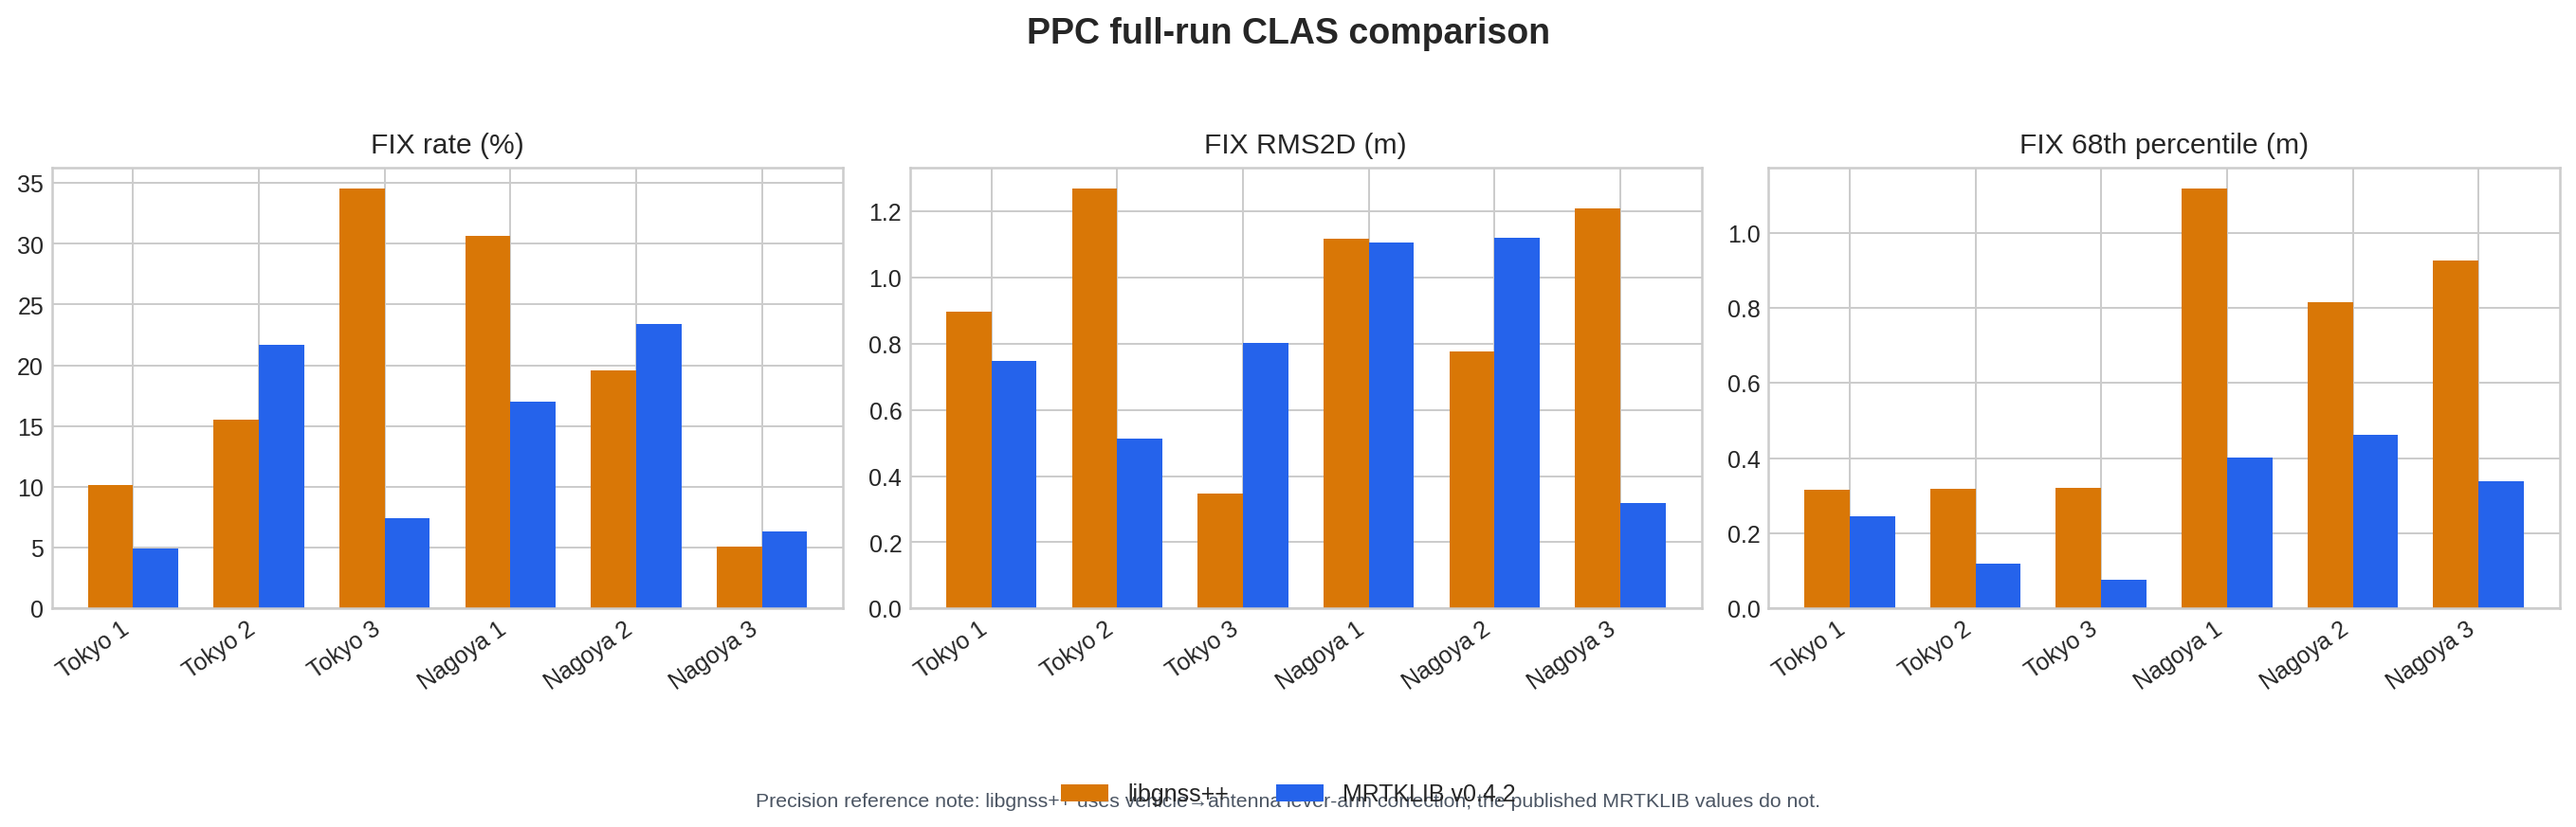
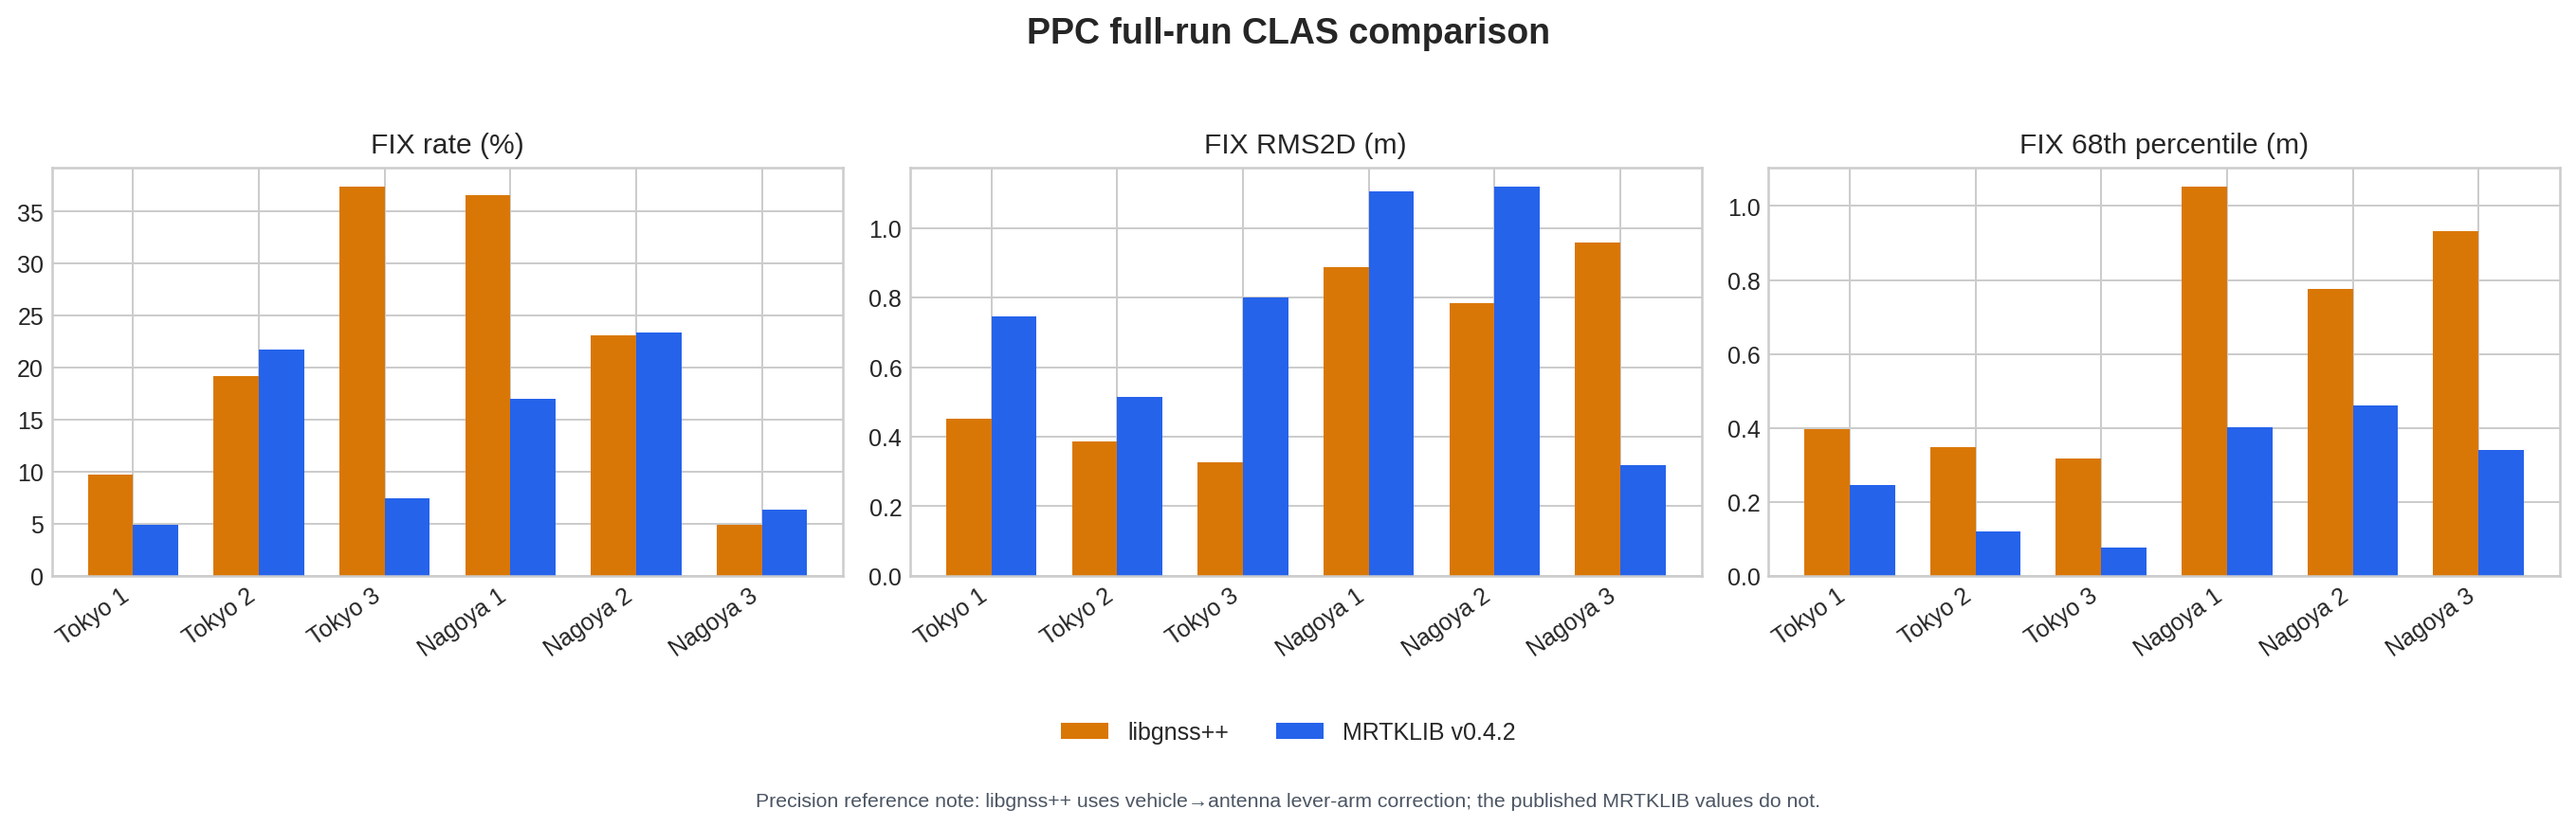
update CLAS benchmark results

diff --git a/scripts/generate_ppc_clas_full_comparison.py b/scripts/generate_ppc_clas_full_comparison.py
@@ -132,6 +132,7 @@ def load_run(
         "p95_fixed_m": rounded(np.percentile(fixed_error, 95)) if len(fixed) else None,
         "max_fixed_m": rounded(np.max(fixed_error)) if len(fixed) else None,
         "fixed_over_1m": int(np.count_nonzero(fixed_error > 1.0)),
+        "fixed_over_3m": int(np.count_nonzero(fixed_error > 3.0)),
         "rms2d_all_m": rounded(np.sqrt(np.mean(all_error**2))),
         "p95_all_m": rounded(np.percentile(all_error, 95)),
         "ttff_30_s": scorecard.compute_ttff_s(
@@ -207,7 +208,13 @@ def write_metric_figure(runs: list[dict[str, Any]], output: Path) -> None:
         ax.set_xticks(x, labels, rotation=35, ha="right")
         ax.set_axisbelow(True)
     handles, legend_labels = axes[0].get_legend_handles_labels()
-    figure.legend(handles, legend_labels, loc="lower center", ncol=2)
+    figure.legend(
+        handles,
+        legend_labels,
+        loc="lower center",
+        bbox_to_anchor=(0.5, 0.065),
+        ncol=2,
+    )
     figure.suptitle("PPC full-run CLAS comparison", fontsize=15, fontweight="bold")
     figure.text(
         0.5,
@@ -218,7 +225,7 @@ def write_metric_figure(runs: list[dict[str, Any]], output: Path) -> None:
         fontsize=8.5,
         color="#4b5563",
     )
-    figure.tight_layout(rect=(0, 0.12, 1, 0.94))
+    figure.tight_layout(rect=(0, 0.16, 1, 0.94))
     output.parent.mkdir(parents=True, exist_ok=True)
     figure.savefig(output, dpi=180, bbox_inches="tight")
     plt.close(figure)
@@ -268,8 +275,8 @@ def write_markdown_table(
     runs: list[dict[str, Any]], aggregate: dict[str, Any], output: Path
 ) -> None:
     lines = [
-        "| Run | Coverage (time / epochs) | libgnss++ FIX | MRTKLIB FIX | libgnss++ FIX RMS2D* | MRTKLIB RMS2D† | libgnss++ FIX p68* | MRTKLIB p68† | libgnss++ TTFF | MRTKLIB TTFF |",
-        "|---|---:|---:|---:|---:|---:|---:|---:|---:|---:|",
+        "| Run | Coverage (time / epochs) | libgnss++ FIX | MRTKLIB FIX | libgnss++ FIX RMS2D* | MRTKLIB RMS2D† | libgnss++ FIX p68* | MRTKLIB p68† | libgnss++ max FIX* | >3 m FIX* | libgnss++ TTFF | MRTKLIB TTFF |",
+        "|---|---:|---:|---:|---:|---:|---:|---:|---:|---:|---:|---:|",
     ]
     for run, (_, label) in zip(runs, RUNS, strict=True):
         local = run["metrics"]
@@ -285,6 +292,8 @@ def write_markdown_table(
                     markdown_value(mrtk["rms2d_m"], " m"),
                     markdown_value(local["p68_fixed_m"], " m"),
                     markdown_value(mrtk["sigma2d_m"], " m"),
+                    markdown_value(local["max_fixed_m"], " m"),
+                    str(local["fixed_over_3m"]),
                     markdown_value(local["ttff_30_s"], " s"),
                     markdown_value(mrtk["ttff_s"], " s"),
                 ]
@@ -294,7 +303,9 @@ def write_markdown_table(
         "| **Six-run aggregate** | — | "
         f"**{markdown_value(aggregate['fix_pct'], '%')}** | — | "
         f"**{markdown_value(aggregate['rms2d_fixed_m'], ' m')}** | — | "
-        f"**{markdown_value(aggregate['p68_fixed_m'], ' m')}** | — | — | — |"
+        f"**{markdown_value(aggregate['p68_fixed_m'], ' m')}** | — | "
+        f"**{markdown_value(aggregate['max_fixed_m'], ' m')}** | "
+        f"**{aggregate['fixed_over_3m']}** | — | — |"
     )
     lines.extend(
         [
@@ -390,6 +401,7 @@ def main() -> int:
             "max_fixed_m": rounded(np.max(fixed_errors))
             if len(fixed_errors) else None,
             "fixed_over_1m": int(np.count_nonzero(fixed_errors > 1.0)),
+            "fixed_over_3m": int(np.count_nonzero(fixed_errors > 3.0)),
             "rms2d_all_m": rounded(np.sqrt(np.mean(all_errors**2))),
             "p95_all_m": rounded(np.percentile(all_errors, 95)),
         },

diff --git a/tests/test_ppc_clas_scorecard.py b/tests/test_ppc_clas_scorecard.py
@@ -82,6 +82,8 @@ class PpcClasLeverArmTest(unittest.TestCase):
                         "fix_pct": 12.5,
                         "rms2d_fixed_m": 0.25,
                         "p68_fixed_m": 0.20,
+                        "max_fixed_m": 0.75,
+                        "fixed_over_3m": 0,
                         "ttff_30_s": None,
                     },
                     "mrtklib_v0_4_2": scorecard.MRTKLIB_TARGETS[key],
@@ -91,6 +93,8 @@ class PpcClasLeverArmTest(unittest.TestCase):
             "fix_pct": 0.0,
             "rms2d_fixed_m": None,
             "p68_fixed_m": None,
+            "max_fixed_m": None,
+            "fixed_over_3m": 0,
         }
         with tempfile.TemporaryDirectory() as temp_dir:
             output = Path(temp_dir) / "table.md"
@@ -102,6 +106,7 @@ class PpcClasLeverArmTest(unittest.TestCase):
         self.assertIn("100.000% / 99.900%", markdown)
         self.assertIn("vehicle truth transformed to the antenna phase center", markdown)
         self.assertIn("unmodified PPC reference point", markdown)
+        self.assertIn(">3 m FIX", markdown)
         self.assertIn("—", markdown)
 
     def test_write_report_with_only_parity_config_does_not_raise(self) -> None:

diff --git a/README.md b/README.md
@@ -22,7 +22,7 @@ handling without an external RTKLIB runtime.
 |---|---|---|
 | RTK | PPC Tokyo/Nagoya vs RTKLIB `demo5` | +17.0 pp positioning, +28.1 pp official score, -11.96 m P95 H delta |
 | GNSS/IMU FGO | PPC Tokyo vs `tightly-coupled-gnss-imu-fgo` | Higher <50 cm fraction (avg +5.3 pp) and fix-rate (avg +7.9 pp) on all 3 runs; fixed-only RMS also wins 2 of 3 runs |
-| CLAS PPP | PPC Tokyo run2 vs MRTKLIB CLAS | Current 480 s moving gate: zero false FIX, 0.114 m FIX RMS2D vs 0.145 m; full six-run sign-off pending. |
+| CLAS PPP | Six PPC Tokyo/Nagoya runs vs MRTKLIB CLAS | 23.646% aggregate FIX, 0.593 m FIX RMS2D, and zero FIX epochs above 3 m across 58,256 scored epochs |
 | Urban RTK | UrbanNav Tokyo Odaiba vs RTKLIB `demo5` | More fixes, lower Hp95/Vp95; `--preset odaiba` closes Hmed |
 | SPP | PPC SPP adaptive robust + policy gate | No P95 regression with <=1 pp positioning drop |
 
@@ -121,39 +121,72 @@ and built DD problem (~2× faster validation loops with an /O2 build).
 
 ### Moving CLAS PPP vs MRTKLIB
 
-This replaces the historical 2019 static `--claslib-parity` snapshot with a
-current moving-data gate. It replays the public PPC Tokyo run2 rover at 5 Hz
-from QZSS L6 corrections, with kinematic dynamics enabled. Both solvers use the
-published PPC reference coordinates, discard the first 60 matched epochs, and
-define TTFF as the first run of at least 30 consecutive FIX epochs.
+The current moving-data gate replays all six public PPC Tokyo/Nagoya runs at
+5 Hz from QZSS L6 corrections with kinematic dynamics enabled. Scoring matches
+solutions to the PPC reference, discards the first 60 matched epochs per run,
+and defines TTFF as the first run of at least 30 consecutive FIX epochs.
 
-The table compares the same first 480 seconds. MRTKLIB is a v0.5.1 local replay
-from the CLAS benchmark lineage described in the
-[MRTKLIB release article](https://zenn.dev/hatognss/articles/7a54dd82606faf).
+MRTKLIB columns are the published v0.4.2 results from the
+[CLAS benchmark article](https://zenn.dev/hatognss/articles/7a54dd82606faf).
+The native results below are the complete-run outputs after the maxdiff recovery
+fix; each run has 100% interval coverage and at least 99.92% epoch coverage.
 
-| Metric | libgnss++ current CLAS | MRTKLIB v0.5.1 CLAS |
+| Run | libgnss++ FIX | MRTKLIB FIX | libgnss++ FIX RMS2D* | MRTKLIB RMS2D† | libgnss++ max FIX* | >3 m FIX* |
+|---|---:|---:|---:|---:|---:|---:|
+| Tokyo 1 | **9.702%** | 4.900% | 0.453 m | 0.747 m | 1.533 m | **0** |
+| Tokyo 2 | 19.219% | **21.700%** | 0.387 m | 0.514 m | 1.036 m | **0** |
+| Tokyo 3 | **37.387%** | 7.400% | 0.327 m | 0.801 m | 2.826 m | **0** |
+| Nagoya 1 | **36.605%** | 17.000% | 0.888 m | 1.105 m | 1.501 m | **0** |
+| Nagoya 2 | 23.117% | **23.400%** | 0.783 m | 1.119 m | 2.486 m | **0** |
+| Nagoya 3 | 4.867% | **6.300%** | 0.959 m | 0.318 m | 1.494 m | **0** |
+| **Six-run aggregate** | **23.646%** | — | **0.593 m** | — | **2.826 m** | **0** |
+
+\* libgnss++ precision uses PPC vehicle truth transformed to the antenna phase
+center. † The published MRTKLIB precision uses the unmodified PPC reference,
+so cross-solver precision columns are contextual rather than reference-identical.
+
+![PPC six-run moving CLAS metric comparison](docs/ppc_clas_full_comparison.png)
+
+Across 58,256 scored epochs, native CLAS produced 13,775 FIX epochs. The
+recovery validation requires enough double-difference support and the kinematic
+ratio floor after a `maxdiffp` event; all six runs now have zero FIX epochs above
+3 m while recovering FIX faster than the previous native implementation.
+
+| Complete trajectories | Horizontal error and FIX epochs |
+|---|---|
+| ![PPC six-run CLAS trajectories](docs/ppc_clas_full_trajectories.png) | ![PPC six-run CLAS errors](docs/ppc_clas_full_errors.png) |
+
+See the [complete table](docs/ppc_clas_full_table.md),
+[machine-readable metrics](docs/ppc_clas_full_metrics.json), and
+[PPC CLAS validation note](docs/ppc_clas_validation.md) for definitions and
+reproduction details.
+
+#### Historical static CLASLIB oracle (separate dataset)
+
+CLASLIB is not included as a third column above because the checked-in CLASLIB
+comparison uses a different, static public sample. On the 2019-08-27
+one-hour dataset from the
+[upstream CLASLIB repository](https://github.com/QZSS-Strategy-Office/claslib),
+the historical native CLASNAT parity path and CLASLIB fixed the same 3,594 of
+3,599 epochs:
+
+| Metric | Historical native CLASNAT | CLASLIB |
 |---|---:|---:|
-| Scored epochs | 2332 | **2340** |
-| FIX epochs | **118 (5.06%)** | 114 (4.87%) |
-| FIX RMS2D | **0.114 m** | 0.145 m |
-| FIX 68th percentile | **0.091 m** | 0.146 m |
-| FIX 95th percentile | **0.208 m** | 0.248 m |
-| Maximum FIX horizontal error | **0.305 m** | 0.797 m |
-| FIX epochs above 1 m | **0** | **0** |
-| All-solution RMS2D | 11.630 m | **8.538 m** |
-| All-solution 95th percentile | 15.160 m | **12.074 m** |
-| 30-epoch TTFF | **301.2 s** | 375.2 s |
-| Runtime dependency | **no CLASLIB runtime** | no CLASLIB runtime |
+| Matched fixed epochs | **3,594 / 3,599 (99.86%)** | **3,594 / 3,599 (99.86%)** |
+| RMS 3D, fixed only | **3.57 mm** | 7.29 mm |
+| 3D bias | **1.66 mm** | 4.84 mm |
+| RMS East / North / Up | **1.15 / 1.21 / 3.15 mm** | 1.52 / **0.92** / 7.07 mm |
+| First fix | epoch 6 | epoch 6 |
+| Runtime dependency | **no CLASLIB runtime** | CLASLIB |
 
-![PPC Tokyo run2 moving CLAS comparison](docs/ppc_clas_tokyo_run2_moving.png)
+| CLASLIB 2D error | Historical native CLASNAT 2D error |
+|---|---|
+| ![CLASLIB static 2D error](docs/clas_claslib_2d.png) | ![Native static CLAS 2D error](docs/clas_native_2d.png) |
 
-The current safety fix clears the complete dynamics/filter/AR state after the
-MRTKLIB-style `maxdiffp` reset. In the 1300-epoch A/B window this removed all 34
-approximately 10 m false fixes while preserving all 25 valid early fixes
-bit-for-bit. FIX integrity now passes this moving gate; FLOAT recovery and the
-full Tokyo/Nagoya six-run scorecard remain open before declaring parity. See the
-[PPC CLAS validation note](docs/ppc_clas_validation.md) for definitions,
-artifacts, and remaining gates.
+This static oracle demonstrates the depth of the original port, but it is not
+evidence of PPC moving-data parity. The six-run table above is the active
+kinematic gate; the CLASLIB result is retained as a separate historical
+reference.
 
 ## Quick Start
 

diff --git a/docs/ppc_clas_validation.md b/docs/ppc_clas_validation.md
@@ -4,11 +4,22 @@ Benchmark source: [GNSS測位エコシステムの統合を目指して - モダ
 
 ## Current verdict
 
-LibGNSS++ has not yet demonstrated full six-run equivalence with the MRTKLIB
-v0.4.2 PPC CLAS benchmark.  The Tokyo run2 480-second quality gate now has no
-false fixes: all 118 fixed epochs are within 0.305 m horizontally, aggregate FIX
-RMS2D is 0.114 m, and the 30-epoch TTFF is 301.2 seconds.  The remaining work is
-full-window, six-run validation and FLOAT trajectory recovery/performance.
+The full six-run PPC moving-data validation is complete. Across 58,256 scored
+epochs, LibGNSS++ produced 13,775 FIX epochs (23.646%) with 0.593 m aggregate
+FIX RMS2D, 0.558 m FIX p68, and no FIX epoch above 3 m. Every run covers 100% of
+the reference interval and at least 99.92% of observation epochs.
+
+Compared with the published MRTKLIB v0.4.2 results, native FIX rate is higher
+on Tokyo 1, Tokyo 3, and Nagoya 1; it is within 0.3 percentage points on
+Nagoya 2 and remains lower on Tokyo 2 and Nagoya 3. Native FIX RMS2D is lower
+on five of six runs. The precision comparison is contextual: native scoring
+transforms PPC vehicle truth to the antenna phase center, while the published
+MRTKLIB values use the unmodified reference point.
+
+This is therefore a completed six-run safety and performance sign-off, not a
+claim of per-metric equivalence on every run. The active remaining work is
+same-reference MRTKLIB replay coverage for all six runs and improved FLOAT
+trajectory recovery.
 
 ## Historical 480-second probe (not final sign-off)
 
@@ -55,21 +66,17 @@ from 7.640 m to 0.192 m.
 
 ## Artifacts
 
-- Corrected position output:
-  `output/ppc_clas_tokyo_run2_probe2400_fixed/native.pos`
-- Machine-readable metrics:
-  `output/ppc_clas_tokyo_run2_probe2400_fixed/article_compatible_metrics.json`
-- Pre-fix position output: `output/ppc_clas_tokyo_run2_probe2400/native.pos`
-- Short probe metrics:
-  `output/ppc_clas_tokyo_run2_probe600/article_compatible_metrics.json`
+- Complete result table: [ppc_clas_full_table.md](ppc_clas_full_table.md)
+- Machine-readable metrics: [ppc_clas_full_metrics.json](ppc_clas_full_metrics.json)
+- Metric comparison: [ppc_clas_full_comparison.png](ppc_clas_full_comparison.png)
+- Complete trajectories: [ppc_clas_full_trajectories.png](ppc_clas_full_trajectories.png)
+- Horizontal-error histories: [ppc_clas_full_errors.png](ppc_clas_full_errors.png)
 
 ## Next development gates
 
-1. Index SSR corrections by epoch instead of repeatedly searching the expanded
-   history.  The 480-second probe took about 47 minutes even with a time-trimmed
-   SSR CSV, which is too slow for a six-run regression suite.
-2. Improve FLOAT recovery after `maxdiffp`; FIX integrity now passes, while the
-   480-second all-solution RMS2D remains 11.630 m.
-3. Run the complete Tokyo run2 window and require aggregate metrics at least as
-   good as the article target without weakening its scoring definition.
-4. Run all six PPC sequences and publish a single default-profile scorecard.
+1. Re-run MRTKLIB on all six PPC sequences and score both implementations
+   against the same antenna-phase-center reference.
+2. Improve Nagoya 3 FIX precision without introducing any FIX epochs above 3 m.
+3. Improve FLOAT/coast recovery, which still dominates all-solution RMS2D.
+4. Promote the six-run generator and cached outputs into a repeatable release
+   sign-off so README assets cannot drift behind solver behavior.

diff --git a/docs/ppc_clas_full_table.md b/docs/ppc_clas_full_table.md
@@ -1,12 +1,12 @@
-| Run | Coverage (time / epochs) | libgnss++ FIX | MRTKLIB FIX | libgnss++ FIX RMS2D* | MRTKLIB RMS2D† | libgnss++ FIX p68* | MRTKLIB p68† | libgnss++ TTFF | MRTKLIB TTFF |
-|---|---:|---:|---:|---:|---:|---:|---:|---:|---:|
-| Tokyo 1 | 100.000% / 92.203% | 10.112% | 4.900% | 0.897 m | 0.747 m | 0.315 m | 0.244 m | 0.000 s | 15.000 s |
-| Tokyo 2 | 100.000% / 95.629% | 15.556% | 21.700% | 1.270 m | 0.514 m | 0.319 m | 0.120 m | 377.600 s | 368.000 s |
-| Tokyo 3 | 100.000% / 96.549% | 34.561% | 7.400% | 0.347 m | 0.801 m | 0.321 m | 0.075 m | 4.000 s | 28.000 s |
-| Nagoya 1 | 100.000% / 92.831% | 30.627% | 17.000% | 1.118 m | 1.105 m | 1.118 m | 0.402 m | 0.000 s | 0.000 s |
-| Nagoya 2 | 100.000% / 95.334% | 19.542% | 23.400% | 0.776 m | 1.119 m | 0.815 m | 0.461 m | 0.000 s | 0.000 s |
-| Nagoya 3 | 100.000% / 97.597% | 5.064% | 6.300% | 1.208 m | 0.318 m | 0.925 m | 0.339 m | 29.000 s | 9.000 s |
-| **Six-run aggregate** | — | **21.136%** | — | **0.816 m** | — | **0.503 m** | — | — | — |
+| Run | Coverage (time / epochs) | libgnss++ FIX | MRTKLIB FIX | libgnss++ FIX RMS2D* | MRTKLIB RMS2D† | libgnss++ FIX p68* | MRTKLIB p68† | libgnss++ max FIX* | >3 m FIX* | libgnss++ TTFF | MRTKLIB TTFF |
+|---|---:|---:|---:|---:|---:|---:|---:|---:|---:|---:|---:|
+| Tokyo 1 | 100.000% / 99.966% | 9.702% | 4.900% | 0.453 m | 0.747 m | 0.397 m | 0.244 m | 1.533 m | 0 | 0.000 s | 15.000 s |
+| Tokyo 2 | 100.000% / 99.989% | 19.219% | 21.700% | 0.387 m | 0.514 m | 0.348 m | 0.120 m | 1.036 m | 0 | 34.000 s | 368.000 s |
+| Tokyo 3 | 100.000% / 99.980% | 37.387% | 7.400% | 0.327 m | 0.801 m | 0.316 m | 0.075 m | 2.826 m | 0 | 4.000 s | 28.000 s |
+| Nagoya 1 | 100.000% / 99.974% | 36.605% | 17.000% | 0.888 m | 1.105 m | 1.052 m | 0.402 m | 1.501 m | 0 | 0.000 s | 0.000 s |
+| Nagoya 2 | 100.000% / 99.958% | 23.117% | 23.400% | 0.783 m | 1.119 m | 0.776 m | 0.461 m | 2.486 m | 0 | 0.000 s | 0.000 s |
+| Nagoya 3 | 100.000% / 99.923% | 4.867% | 6.300% | 0.959 m | 0.318 m | 0.932 m | 0.339 m | 1.494 m | 0 | 29.200 s | 9.000 s |
+| **Six-run aggregate** | — | **23.646%** | — | **0.593 m** | — | **0.558 m** | — | **2.826 m** | **0** | — | — |
 
 \* libgnss++ precision uses PPC vehicle truth transformed to the antenna phase center.
 † Published MRTKLIB v0.4.2 precision uses the unmodified PPC reference point; precision columns are contextual rather than reference-identical.
